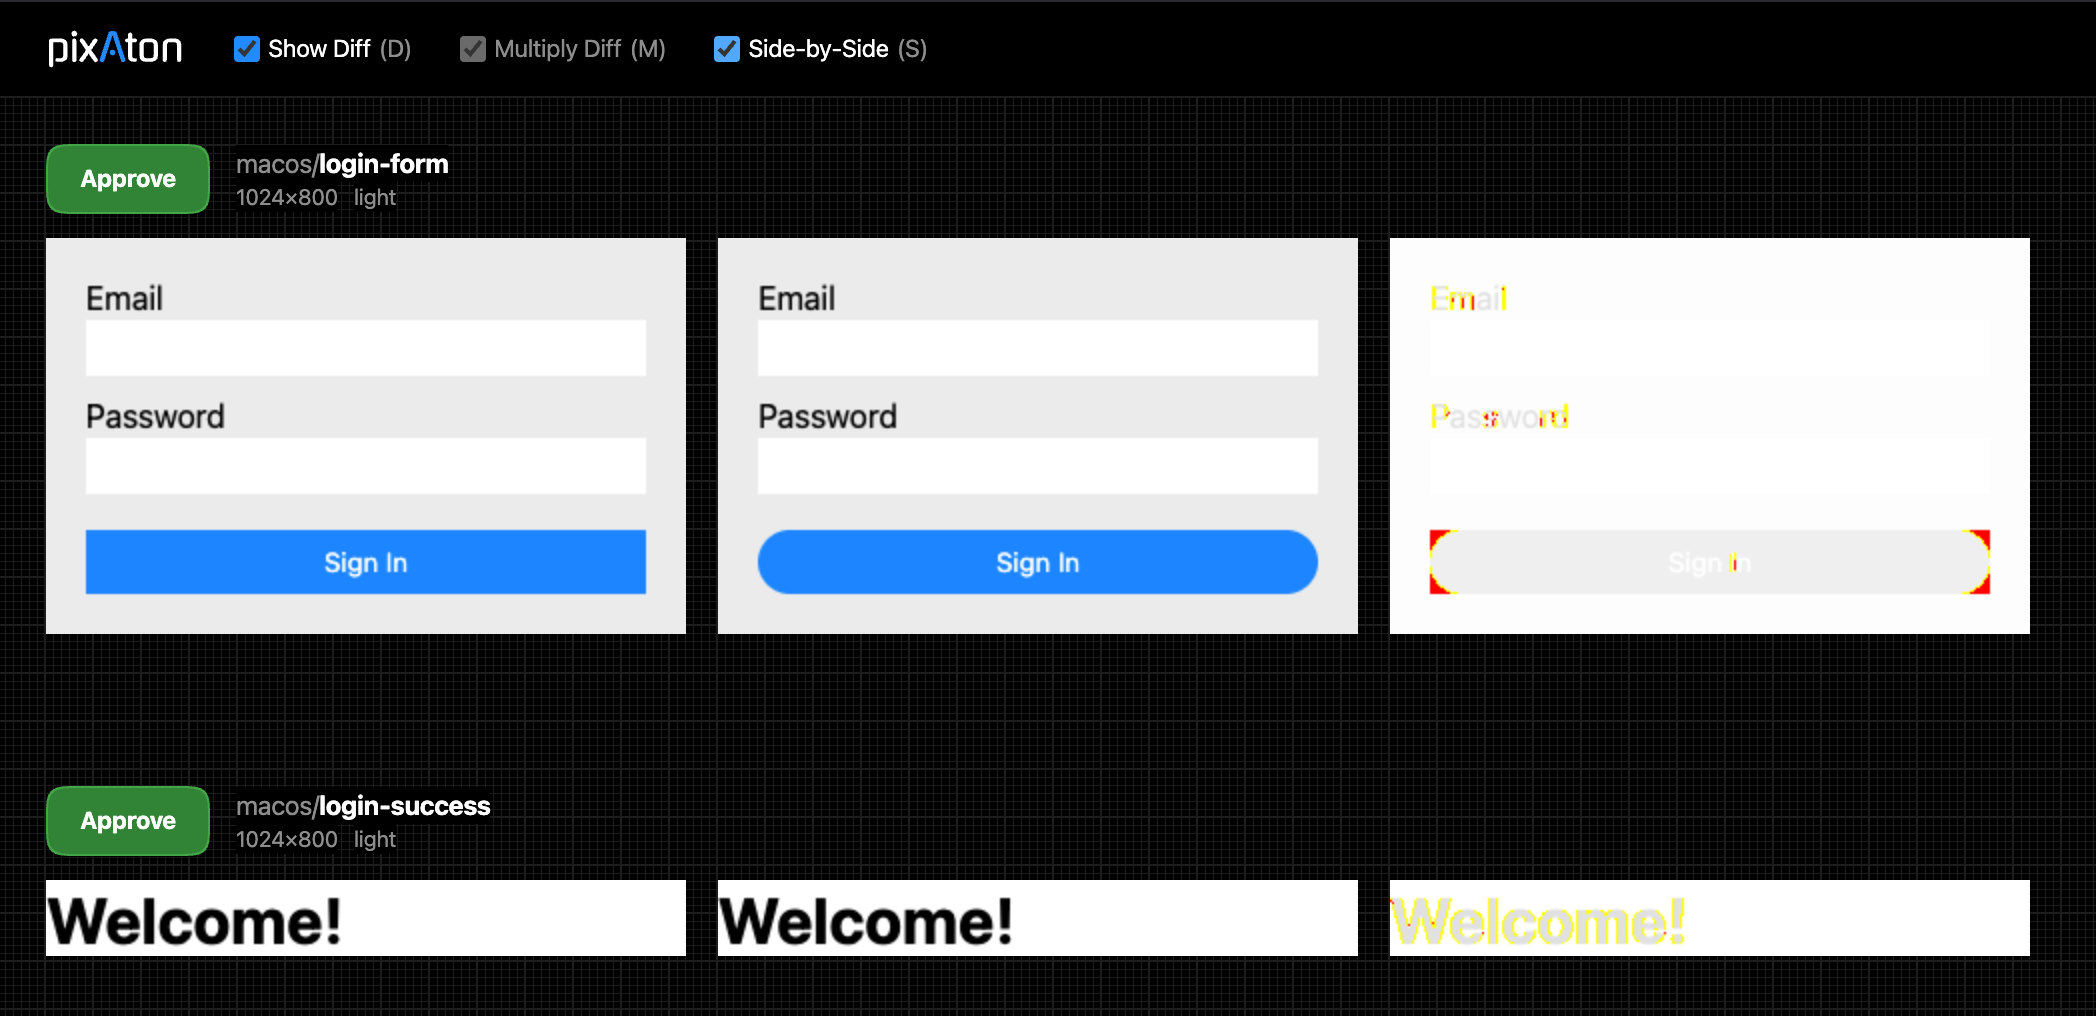
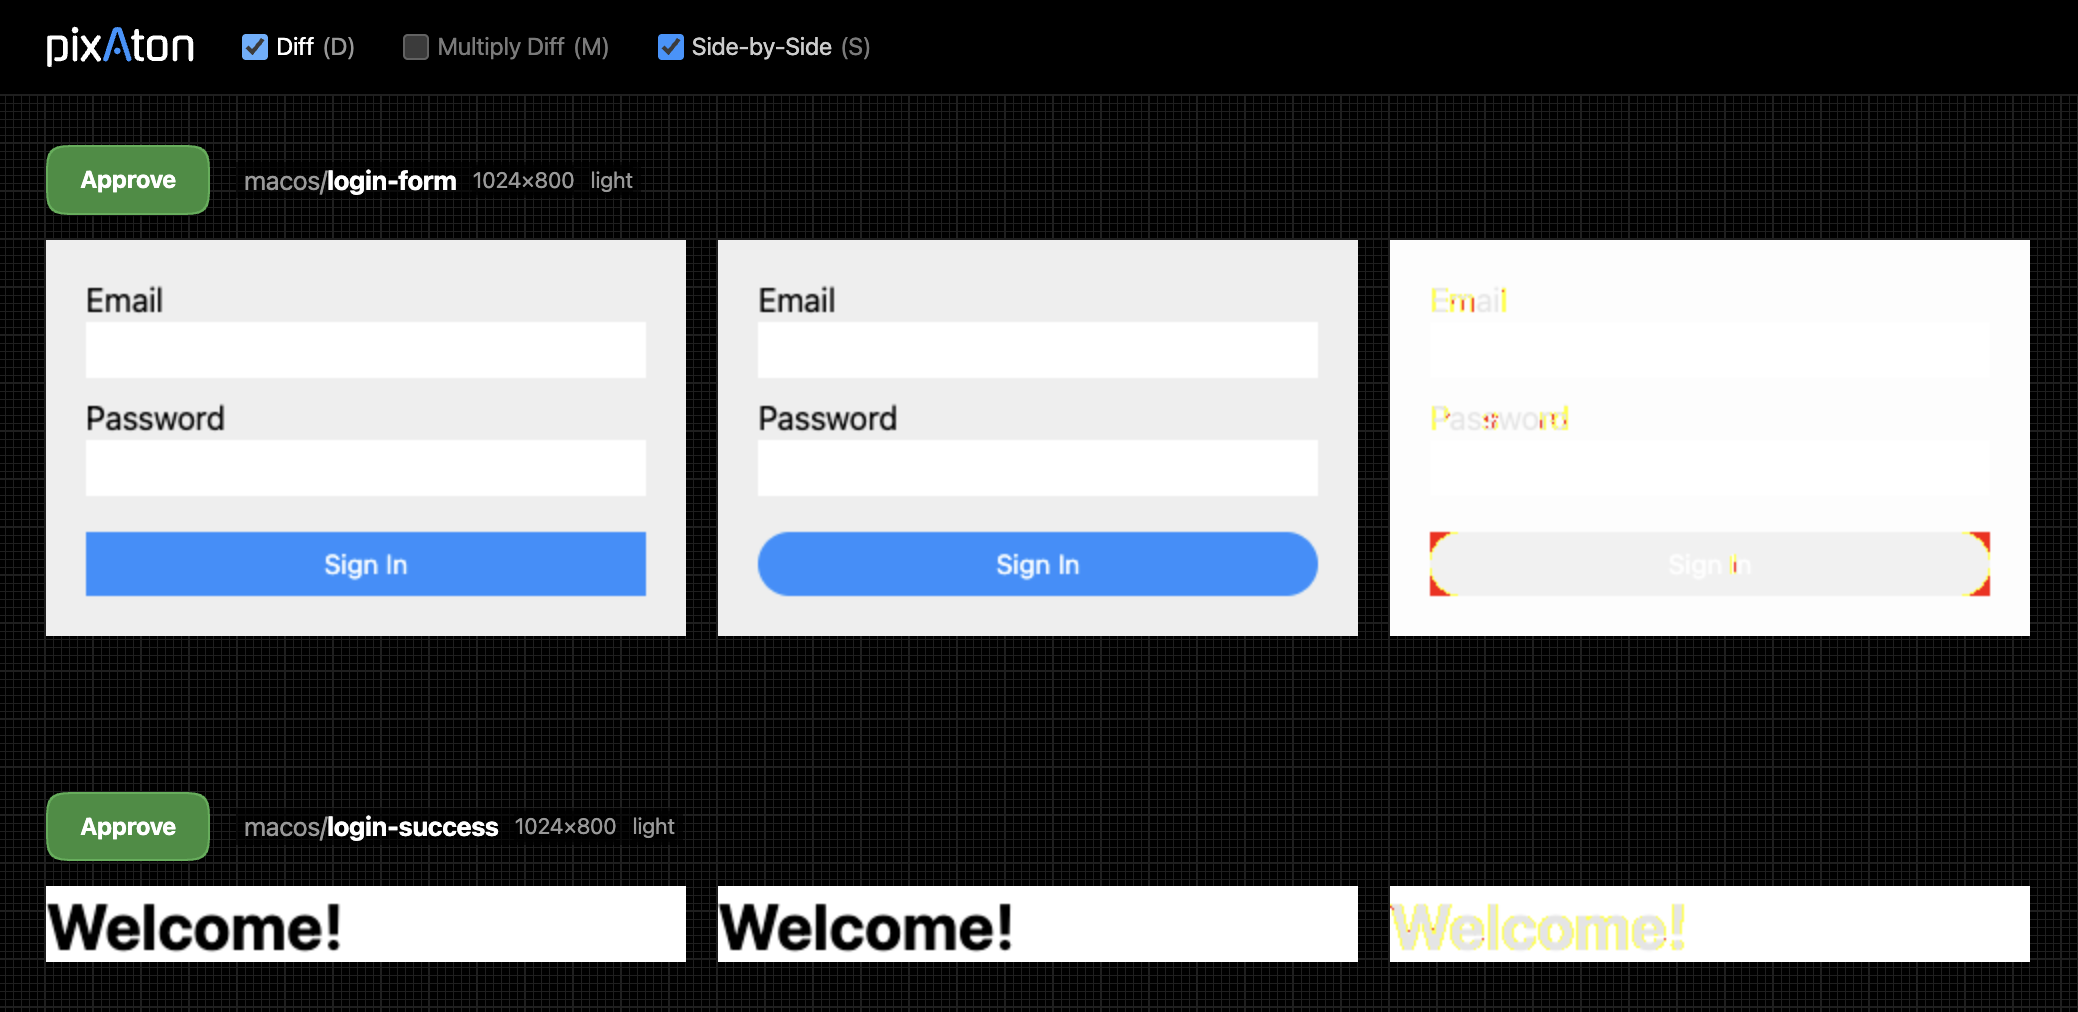
2.2.0 simplify ui

Changed region(s): [[0.0, 0.0919, 1.0, 1.0], [0.0, 0.0306, 0.462, 0.0613], [0.0308, 0.3982, 0.1232, 0.4289]]

diff --git a/src/review-app/client/app.js b/src/review-app/client/app.js
@@ -76,7 +76,7 @@ function SectionsDiffs() {
 function ToggleDiffOverlayCheckbox() {
 	return Checkbox({
 		label: Fragment(
-			r('span', null, t`Show Diff`),
+			r('span', null, t`Diff`),
 			r('kbd', null, 'D')),
 		checked: store.showDiff,
 		onChange: store.toggleShowDiff
@@ -155,21 +155,10 @@ function Title(diff) {
 }
 
 function OpacitySlider(candidate) {
-	const inputRef = {
-		update(value) {
-			inputRef.elem.value = value
-			inputRef.elem.dispatchEvent(new Event('input'))
-		}
-	}
+	const inputRef = {}
+	const checkboxRef = {}
 	return (
-		r('div', { className: CSS.OpacitySlider },
-			r('button', {
-				disabled: store.showDiff,
-				onClick() {
-					inputRef.update(inputRef.elem.valueAsNumber > 0 ? 0 : 100)
-				}
-			}, t`Old`),
-
+		r('div', { className: CSS.OpacitySliderGroup },
 			r('input', {
 				ref: inputRef,
 				disabled: store.showDiff,
@@ -181,15 +170,19 @@ function OpacitySlider(candidate) {
 				value: 100,
 				onInput() {
 					candidate.style.opacity = this.valueAsNumber / 100
+					checkboxRef.elem.checked = this.valueAsNumber === 100
 				}
 			}),
-
-			r('button', {
+			Checkbox({
+				ref: checkboxRef,
+				label: t`Candidate`,
 				disabled: store.showDiff,
-				onClick() {
-					inputRef.update(inputRef.elem.valueAsNumber < 100 ? 100 : 0)
+				checked: inputRef.elem.valueAsNumber === 100,
+				onChange() {
+					inputRef.elem.value = inputRef.elem.valueAsNumber < 100 ? 100 : 0
+					inputRef.elem.dispatchEvent(new Event('input'))
 				}
-			}, t`New`)))
+			})))
 }
 
 
@@ -200,10 +193,11 @@ function Figure(src, className) {
 }
 
 
-function Checkbox({ checked, onChange, label, className, disabled }) {
+function Checkbox({ ref, checked, onChange, label, className, disabled }) {
 	return (
 		r('label', { className: classNames(CSS.Checkbox, className) },
 			r('input', {
+				ref,
 				disabled,
 				type: 'checkbox',
 				checked,

diff --git a/src/review-app/client/app.css b/src/review-app/client/app.css
@@ -45,6 +45,7 @@ body {
 
 header {
 	position: sticky;
+	z-index: 100;
 	top: 0;
 	display: flex;
 	height: 47px;
@@ -54,7 +55,7 @@ header {
 
 	.Logo {
 		width: 74px;
-		margin-left: 25px;
+		margin-left: 24px;
 		pointer-events: none;
 		color: var(--colorAccent);
 		fill: var(--colorText);
@@ -146,24 +147,11 @@ section {
 	padding: 24px;
 }
 
-.OpacitySlider {
+.OpacitySliderGroup {
 	display: flex;
 	gap: 4px;
-	input {
+	input[type="range"] {
 		width: 120px;
-	}
-	button {
-		padding: 0 4px;
-		border: 1px solid var(--colorBorder);
-		background: none;
-		font-size: 11px;
-		user-select: none;
-		background: var(--colorBg);
-		border-radius: var(--radius);
-
-		&:enabled:hover {
-			color: var(--colorAccent);
-		}
 	}
 }
 
@@ -173,7 +161,6 @@ section {
 	align-items: center;
 	gap: 4px;
 	font-size: 12px;
-	cursor: pointer;
 	user-select: none;
 
 	input + span {
@@ -186,6 +173,7 @@ section {
 	}
 
 	input:enabled:hover + span {
+		cursor: pointer;
 		opacity: 1;
 	}
 }

diff --git a/README.md b/README.md
@@ -41,7 +41,11 @@ myTestPixels(
 
 Here’s an example report, where the login button now has rounded corners and the font has been slightly changed.
 
+### Side-By-Side
 <img src="./README-example-diff.png" />
+
+### Slider (onion skin)
+<img src="./README-example-diff2.png" />
 
 Hitting **Approve** renames the corresponding
 `.candidate.png` to `.gold.png`, and deletes `.diff.png`